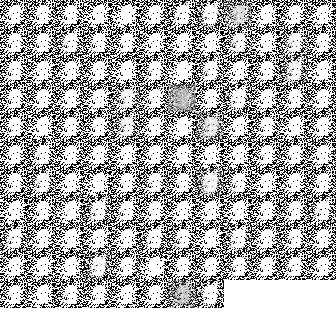
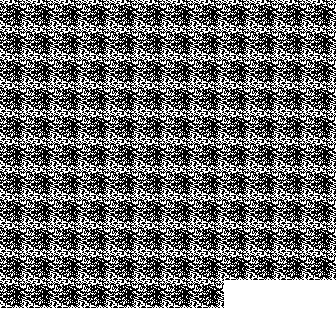
Normalization when loading MNIST is optional.

diff --git a/Neuro.Examples/include/GAN.h b/Neuro.Examples/include/GAN.h
@@ -1,6 +1,7 @@
 #include <iostream>
 #include <string>
 #include <vector>
+#include <iomanip>
 
 #include "Neuro.h"
 
@@ -24,11 +25,12 @@ public:
         cout << ganModel->Summary();
 
         Tensor images, labels;
-        LoadMnistData("data/train-images.idx3-ubyte", "data/train-labels.idx1-ubyte", images, labels, false, 60000);
+        LoadMnistData("data/train-images.idx3-ubyte", "data/train-labels.idx1-ubyte", images, labels, false, false, 6000);
+        images.Map([](float x) { return (x - 127.5f) / 127.5f; }, images);
         images.Reshape(Shape(1, 784, 1, -1));
 
         const uint32_t BATCH_SIZE = 128;
-        const uint32_t EPOCHS = 40;
+        const uint32_t EPOCHS = 100;
 
         uint32_t batchCount = images.Batch() / BATCH_SIZE;
         Tensor discriminatorInput(Shape::From(discriminator->InputShape(), 2 * BATCH_SIZE));
@@ -40,8 +42,11 @@ public:
         {
             cout << "Epoch " << e << endl;
 
-            Tqdm progress(BATCH_SIZE);
-            for (uint32_t i = 0; i < BATCH_SIZE; ++i, progress.NextStep())
+            float totalGanError = 0.f;
+            float totalDiscriminatorError = 0.f;
+
+            Tqdm progress(batchCount);
+            for (uint32_t i = 0; i < batchCount; ++i, progress.NextStep())
             {
                 ganInput.FillWithFunc([]() { return Normal::NextSingle(0, 1); });
 
@@ -49,21 +54,23 @@ public:
                 Tensor realImages = images.GetRandomBatches(BATCH_SIZE);
 
                 generatedImages.Concat(EAxis::Global, { &generatedImages, &realImages }, discriminatorInput);
-                discriminatorOutput.FillWithValue(0.9f);
+                discriminatorOutput.FillWithValue(1.f);
                 discriminatorOutput.FillWithValue(0.f, BATCH_SIZE);
 
                 discriminator->SetTrainable(true);
-                discriminator->TrainOnBatch(discriminatorInput, discriminatorOutput);
+                totalDiscriminatorError += discriminator->TrainOnBatch(discriminatorInput, discriminatorOutput);
 
                 ganInput.FillWithFunc([]() { return Normal::NextSingle(0, 1); });
                 ganOutput.FillWithValue(1.f);
 
                 discriminator->SetTrainable(false);
-                ganModel->TrainOnBatch(ganInput, ganOutput);
+                totalGanError += ganModel->TrainOnBatch(ganInput, ganOutput);
             }
 
+            cout << " - d_error: " << setprecision(4) << totalDiscriminatorError / batchCount << " - g_error: " << totalGanError / batchCount << endl;
+
             if (e == 1 || e % 2 == 0)
-                generator->Output().Reshaped(Shape(28, 28, 1, -1)).SaveAsImage("generator_" + to_string(e) + ".png", true);
+                generator->Output().Map([](float x) { return x * 127.5f + 127.5f; }).Reshaped(Shape(28, 28, 1, -1)).SaveAsImage("generator_" + to_string(e) + ".png", true);
         }
 
         cin.get();
@@ -78,8 +85,7 @@ private:
         model->AddLayer(new Dense(512, new LeakyReLU(0.2f)));
         model->AddLayer(new Dense(1024, new LeakyReLU(0.2f)));
         model->AddLayer(new Dense(784, new Tanh()));
-        model->Optimize(new Adam(), new BinaryCrossEntropy());
-        cout << model->Summary();
+        //cout << model->Summary();
         return model;
     }
 
@@ -93,7 +99,7 @@ private:
         model->AddLayer(new Dense(256, new LeakyReLU(0.2f)));
         model->AddLayer(new Dense(1, new Sigmoid()));
         model->Optimize(new Adam(), new BinaryCrossEntropy());
-        cout << model->Summary();
+        //cout << model->Summary();
         return model;
     }
 };

diff --git a/Neuro/src/Models/ModelBase.cpp b/Neuro/src/Models/ModelBase.cpp
@@ -341,12 +341,14 @@ namespace Neuro
             if (verbose == 2)
                 LogLine(progress.Str(), false);
 
-            m_LastTrainError = trainTotalError / trainSamplesCount;
+            float trainError = trainTotalError / trainSamplesCount / outputs.size();
+            float trainAcc = (float)trainHits / trainSamplesCount / outputs.size();
+            m_LastTrainError = trainError;
 
             if (chartGen)
             {
-                chartGen->AddData((float)e, m_LastTrainError, (int)ETrack::TrainError);
-                chartGen->AddData((float)e, (float)trainHits / trainSamplesCount / OutputLayersCount(), (int)ETrack::TrainAccuracy);
+                chartGen->AddData((float)e, trainError, (int)ETrack::TrainError);
+                chartGen->AddData((float)e, trainAcc, (int)ETrack::TrainAccuracy);
             }
 
             stringstream summary;
@@ -355,9 +357,9 @@ namespace Neuro
             if (verbose > 0)
             {
                 if (trackFlags & ETrack::TrainError)
-                    summary << " - loss: " << m_LastTrainError;
+                    summary << " - loss: " << trainError;
                 if (trackFlags & ETrack::TrainAccuracy)
-                    summary << " - acc: " << (float)trainHits / trainSamplesCount;
+                    summary << " - acc: " << trainAcc;
             }
 
             if (validInputs && validOutputs)
@@ -389,14 +391,15 @@ namespace Neuro
                     }
                 }
 
-                float validationError = validationTotalError / validationSamplesCount;
+                float validationError = validationTotalError / validationSamplesCount / outputs.size();
+                float validationAcc = (float)validationHits / validationSamplesCount / outputs.size();
 
                 if (verbose > 0)
                 {
                     if (trackFlags & ETrack::TestError)
                         summary << " - val_loss: " << validationError;
                     if (trackFlags & ETrack::TestAccuracy)
-                        summary << " - val_acc: " << (float)validationHits / validationSamplesCount;
+                        summary << " - val_acc: " << validationAcc;
                 }
 
                 /*chartGen?.AddData(e, testTotalError / validationSamples, (int)Track::TestError);
@@ -466,15 +469,17 @@ namespace Neuro
     }
 
     //////////////////////////////////////////////////////////////////////////
-    void ModelBase::TrainOnBatch(const Tensor& input, const Tensor& output)
+    float ModelBase::TrainOnBatch(const Tensor& input, const Tensor& output)
     {
-        TrainOnBatch({ &input }, { &output });
+        return TrainOnBatch({ &input }, { &output });
     }
 
     //////////////////////////////////////////////////////////////////////////
-    void ModelBase::TrainOnBatch(const tensor_ptr_vec_t& inputs, const tensor_ptr_vec_t& outputs)
+    float ModelBase::TrainOnBatch(const tensor_ptr_vec_t& inputs, const tensor_ptr_vec_t& outputs)
     {
-        TrainStep(inputs, outputs);
+        float totalError = 0;
+        TrainStep(inputs, outputs, &totalError);
+        return totalError / inputs[0]->Batch() / outputs.size();
     }
 
     //////////////////////////////////////////////////////////////////////////

diff --git a/Neuro/src/Tools.cpp b/Neuro/src/Tools.cpp
@@ -189,7 +189,7 @@ namespace Neuro
     }
 
     //////////////////////////////////////////////////////////////////////////
-    void LoadMnistData(const string& imagesFile, const string& labelsFile, Tensor& input, Tensor& output, bool generateImage, int maxImages)
+    void LoadMnistData(const string& imagesFile, const string& labelsFile, Tensor& input, Tensor& output, bool normalize, bool generateImage, int maxImages)
     {
         auto ReadBigInt32 = [](const unique_ptr<char[]>& buffer, size_t offset)
         {
@@ -236,16 +236,16 @@ namespace Neuro
 
         for (uint32_t i = 0; i < (uint32_t)maxImages; ++i)
         {
-            for (uint32_t y = 0; y < imgWidth; ++y)
-            for (uint32_t x = 0; x < imgHeight; ++x)
+            for (uint32_t h = 0; h < imgWidth; ++h)
+            for (uint32_t w = 0; w < imgHeight; ++w)
             {
                 uint8_t color = *(pixelOffset++);
-                input(x, y, 0, i) = color / 255.f;
+                input(w, h, 0, i) = normalize ? color / 255.f : color;
 
                 if (image)
                 {
                     imageColor.rgbRed = imageColor.rgbGreen = imageColor.rgbBlue = color;
-                    FreeImage_SetPixelColor(image, (i % imageCols) * imgWidth + x, IMG_HEIGHT - ((i / imageCols) * imgHeight + y) - 1, &imageColor);
+                    FreeImage_SetPixelColor(image, (i % imageCols) * imgWidth + w, IMG_HEIGHT - ((i / imageCols) * imgHeight + h) - 1, &imageColor);
                 }
             }
 

diff --git a/Neuro/include/Models/ModelBase.h b/Neuro/include/Models/ModelBase.h
@@ -30,8 +30,8 @@ namespace Neuro
         // Training method, when batch size is -1 the whole training set is used for single gradient descent step (in other words, batch size equals to training set size)
         void Fit(const tensor_ptr_vec_t& inputs, const tensor_ptr_vec_t& outputs, int batchSize = -1, uint32_t epochs = 1, const tensor_ptr_vec_t* validInputs = nullptr, const tensor_ptr_vec_t* validOutputs = nullptr, uint32_t verbose = 1, int trackFlags = ETrack::TrainError | ETrack::TestAccuracy, bool shuffle = true);
 
-        void TrainOnBatch(const Tensor& input, const Tensor& output);
-        void TrainOnBatch(const tensor_ptr_vec_t& inputs, const tensor_ptr_vec_t& outputs);
+        float TrainOnBatch(const Tensor& input, const Tensor& output);
+        float TrainOnBatch(const tensor_ptr_vec_t& inputs, const tensor_ptr_vec_t& outputs);
 
         const vector<Tensor>& Predict(const tensor_ptr_vec_t& inputs);
         const vector<Tensor>& Predict(const Tensor& input);

diff --git a/Neuro.Examples/include/MnistNetwork.h b/Neuro.Examples/include/MnistNetwork.h
@@ -26,10 +26,10 @@ public:
         model->Optimize(new Adam(), new BinaryCrossEntropy());
 
         Tensor input, output;
-        LoadMnistData("data/train-images.idx3-ubyte", "data/train-labels.idx1-ubyte", input, output, false, 6000);
+        LoadMnistData("data/train-images.idx3-ubyte", "data/train-labels.idx1-ubyte", input, output, true, false, 6000);
         input.Reshape(Shape(1, -1, 1, input.Batch()));
         Tensor validationInput, validationOutput;
-        LoadMnistData("data/t10k-images.idx3-ubyte", "data/t10k-labels.idx1-ubyte", validationInput, validationOutput, false, 1000);
+        LoadMnistData("data/t10k-images.idx3-ubyte", "data/t10k-labels.idx1-ubyte", validationInput, validationOutput, true, false, 1000);
         validationInput.Reshape(Shape(1, -1, 1, validationInput.Batch()));
 
         model->Fit(input, output, 128, 10, &validationInput, &validationOutput, 2, ETrack::All);

diff --git a/Neuro/include/Tools.h b/Neuro/include/Tools.h
@@ -38,7 +38,7 @@ namespace Neuro
 
     string GetProgressString(int iteration, int maxIterations, const string& extraStr = "", int barLength = 30, char blankSymbol = '.', char fullSymbol = '=');
 
-    void LoadMnistData(const string& imagesFile, const string& labelsFile, Tensor& input, Tensor& output, bool generateImage = false, int maxImages = -1);
+    void LoadMnistData(const string& imagesFile, const string& labelsFile, Tensor& input, Tensor& output, bool normalize, bool generateImage = false, int maxImages = -1);
     //void SaveMnistData(const Tensor& input, const Tensor& output, const string& imagesFile, const string& labelsFile);
 
     void LoadCSVData(const string& filename, int outputsNum, Tensor& inputs, Tensor& outputs, bool outputsOneHotEncoded = false, int maxLines = -1);

diff --git a/Neuro.Examples/include/MnistConvNetwork.h b/Neuro.Examples/include/MnistConvNetwork.h
@@ -28,9 +28,9 @@ public:
         cout << model.Summary();
 
         Tensor input, output;
-        LoadMnistData("data/train-images.idx3-ubyte", "data/train-labels.idx1-ubyte", input, output, false, 6000);
+        LoadMnistData("data/train-images.idx3-ubyte", "data/train-labels.idx1-ubyte", input, output, true, false, 6000);
         Tensor validationInput, validationOutput;
-        LoadMnistData("data/t10k-images.idx3-ubyte", "data/t10k-labels.idx1-ubyte", validationInput, validationOutput, false, 1000);
+        LoadMnistData("data/t10k-images.idx3-ubyte", "data/t10k-labels.idx1-ubyte", validationInput, validationOutput, true, false, 1000);
 
         model.Fit(input, output, 200, 10, &validationInput, &validationOutput, 2, ETrack::All);
 

diff --git a/Neuro.Examples/include/AutoencoderNetwork.h b/Neuro.Examples/include/AutoencoderNetwork.h
@@ -42,7 +42,7 @@ public:
         cout << model.Summary();
 
         Tensor input, output;
-        LoadMnistData("data/train-images.idx3-ubyte", "data/train-labels.idx1-ubyte", input, output, false, 60000);
+        LoadMnistData("data/train-images.idx3-ubyte", "data/train-labels.idx1-ubyte", input, output, true, false, 60000);
         input.Reshape(Shape(1, 784, 1, -1));
 
         model.Fit(input, input, 256, 50, nullptr, nullptr, 2, ETrack::TrainError);

diff --git a/Neuro.Examples/src/main.cpp b/Neuro.Examples/src/main.cpp
@@ -26,7 +26,7 @@ int main()
     t.Pool2D(2, 2, EPoolingMode::Max, 0).SaveAsImage("test_maxpool.bmp", true);*/
 
     /*Tensor input, output;
-    LoadMnistData("data/train-images.idx3-ubyte", "data/train-labels.idx1-ubyte", input, output, true, 10);
+    LoadMnistData("data/train-images.idx3-ubyte", "data/train-labels.idx1-ubyte", input, output, true, true, 10);
     input.SaveAsImage("xx.png", true);*/
     
     //IrisNetwork::Run();

diff --git a/Neuro.Examples/include/ConvAutoencoderNetwork.h b/Neuro.Examples/include/ConvAutoencoderNetwork.h
@@ -38,7 +38,7 @@ public:
         //cout << model.Summary();
 
         Tensor input, output;
-        LoadMnistData("data/train-images.idx3-ubyte", "data/train-labels.idx1-ubyte", input, output, false);
+        LoadMnistData("data/train-images.idx3-ubyte", "data/train-labels.idx1-ubyte", input, output, true);
 
         model.Fit(input, input, 256, 50, nullptr, nullptr, 2, ETrack::TrainError);
 
